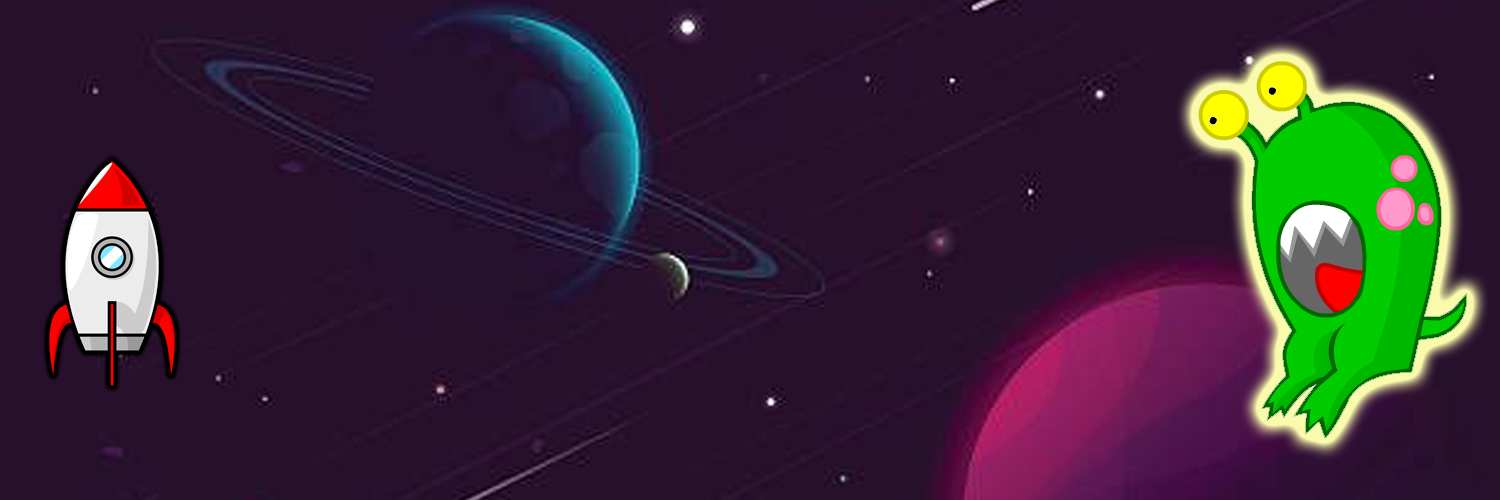
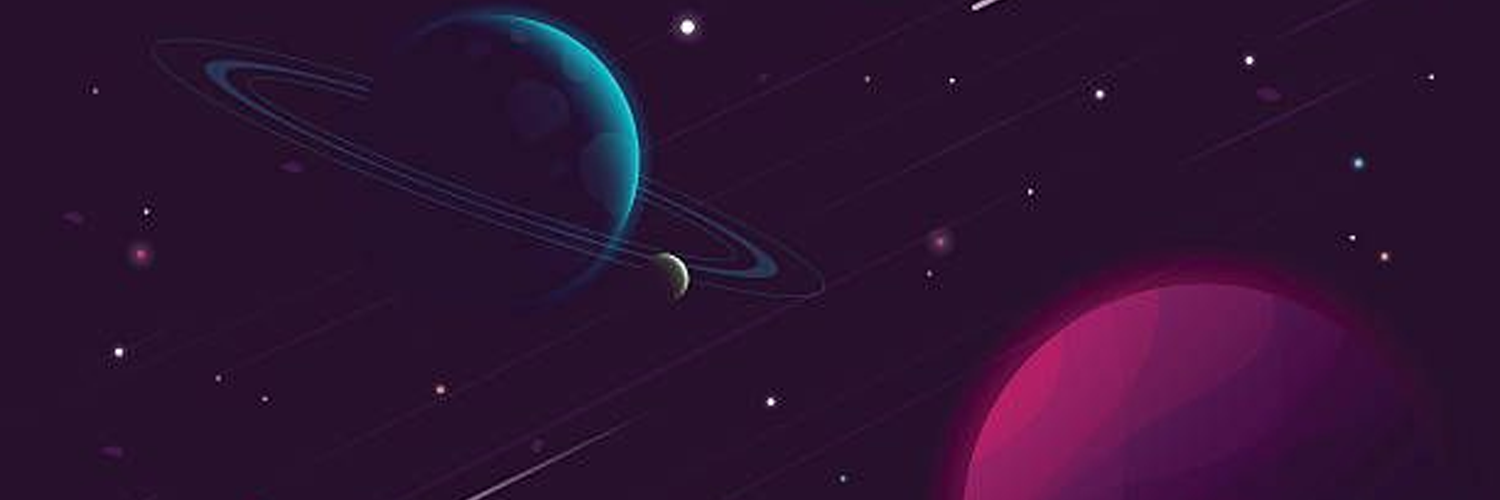
changed the background and made the background images separate images in the dom

Changed region(s): [[0.7667, 0.09, 1.0, 0.93], [0.0307, 0.3, 0.1227, 0.78]]

diff --git a/assets/js/app.js b/assets/js/app.js
@@ -67,6 +67,7 @@ if(humanChoice === "Rock"  && computerChoice === "Scissors" || humanChoice === "
 let iconMove = function (){
     if(tallyDifference === -5){
         document.getElementById("meteorImg").style.marginLeft = "75%";
+        document.getElementById("statusText").innerHTML = "YOU LOSE"
     }else if (tallyDifference === -4){
         document.getElementById("meteorImg").style.marginLeft = "60%";
     }else if (tallyDifference === -3){
@@ -88,6 +89,7 @@ let iconMove = function (){
         document.getElementById("meteorImg").style.marginRight = "60%";
     }else if (tallyDifference === 5){
         document.getElementById("meteorImg").style.marginRight = "75%";
+        document.getElementById("statusText").innerHTML = "YOU WIN"
     }
 }
-console.log(tallyDifference)
+

diff --git a/index.html b/index.html
@@ -12,7 +12,10 @@
             <h1 id="test">Rock, Paper Scissors</h1>
         </div>
         <div id="imageContainer">
-           <img id="meteorImg" src="assets/images/FleeingSpaceMan.png" >
+            <div><img id="spaceShip" src="assets/images/Spaceship.png"></div>
+           <div><img id="meteorImg" src="assets/images/FleeingSpaceMan.png" ></div>
+           <div><img id="spaceShip" src="assets/images/AlienImg.png"></div>
+           <h1 id="statusText"></h1>
         </div>
         <div id="gameContainer">
             <div class="scoreBox">

diff --git a/assets/css/styles.css b/assets/css/styles.css
@@ -1,15 +1,19 @@
+
 h1 {
     display: flex;
     justify-content: center;
 }
 
+
 #imageContainer {
   display: flex;
-  justify-content: center;
+  justify-content: space-evenly;
   background-image: url("../images/AlienEncounterBackground.png");
   background-repeat: no-repeat;
   background-size: auto;
 }
+
+
 
 #gameContainer{
   display: flex;
@@ -19,7 +23,7 @@ h1 {
 #buttonContainer{
   display: grid;
   justify-content: center;
-  width: 33%; 
+  width: 30%; 
 }
 
 .scoreBox {
